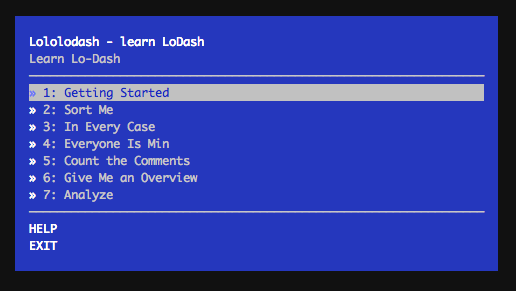
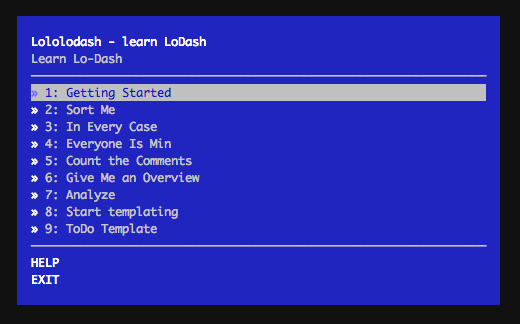
- Adding 8 +9 to menu - New Image (2 new exercises) - A little bit more line breaks in the problem.md files - 0.3.0 => npm publish

Changed region(s): [[0.031, 0.0619, 0.9922, 0.9278], [0.031, 0.9278, 0.9612, 0.9588], [0.031, 0.0309, 0.9612, 0.0619]]

diff --git a/exercises/9_todo_template/problem.md b/exercises/9_todo_template/problem.md
@@ -13,7 +13,7 @@ the same as `<? ?>`.
 ```js
 var mytemplate = '<% _.forEach(data, function(item){ %>' +
     '<li><%= item %></li>' +
-'<% }); %>';
+    '<% }); %>';
 _.template(mytemplate, {data: [1, 2, 3]});
 
 /*
@@ -28,8 +28,8 @@ Javascript. Isn't that awesome?
 
 As a third parameter, `template()` accepts a options object. One of
 the options I really like and want to show you is `option.imports`.
-With `options.imports`, you can define an object to describe values to import into the
-template as local variables.
+With `options.imports`, you can define an object to describe values
+to import into the template as local variables.
 
 #### Example ####
 ```js
@@ -38,7 +38,8 @@ var ucfirst = function (str) {
     return f + str.substr(1);
 };
 
-_.template('Hello <%= ucfirst(foo) %>', {foo: "mike"}, { 'imports': { 'ucfirst': ucfirst } });
+_.template('Hello <%= ucfirst(foo) %>', {foo: "mike"},
+           { 'imports': { 'ucfirst': ucfirst } });
 // Hello Mike
 ```
 
@@ -74,8 +75,8 @@ We have a JSON of different to-do's:
   ]
 }
 ```
-We want to create a simple nested `<ul><li>` list of all the to-do items.
-But, in addition to creating HTML code, we want you to:
+We want to create a simple nested `<ul><li>` list of all the
+to-do items. But, in addition to creating HTML code, we want you to:
 - Sort the to-do items by date (from earliest to latest)
 - Add a "<b>URGENT</b>" to every `<li>` when the date is only 2 days or fewer from today.
 

diff --git a/exercises/8_start_templating/problem.md b/exercises/8_start_templating/problem.md
@@ -5,7 +5,8 @@ Let's do a little bit of templating!
 * * *
 ## Lead the Way ##
 For this mission, let me show you the `template` function.
-_template() gives you access to simple and powerfull micro-templating with Lo-Dash.
+_template() gives you access to simple and powerfull micro-templating
+with Lo-Dash.
 
 ```js
 _.template(text, data)
@@ -31,9 +32,9 @@ a simple var for us:
   login: [ 1407574431, 140753421 ]
 }
 ```
-We want a simple string greeting the user by name and showing the number of times
-the user has logged in (every timestamp represents one login). Your
-function should return a String like this:
+We want a simple string greeting the user by name and showing the
+number of times the user has logged in (every timestamp represents
+one login). Your function should return a String like this:
 
 ```
 Hello Foo (logins: 2)
